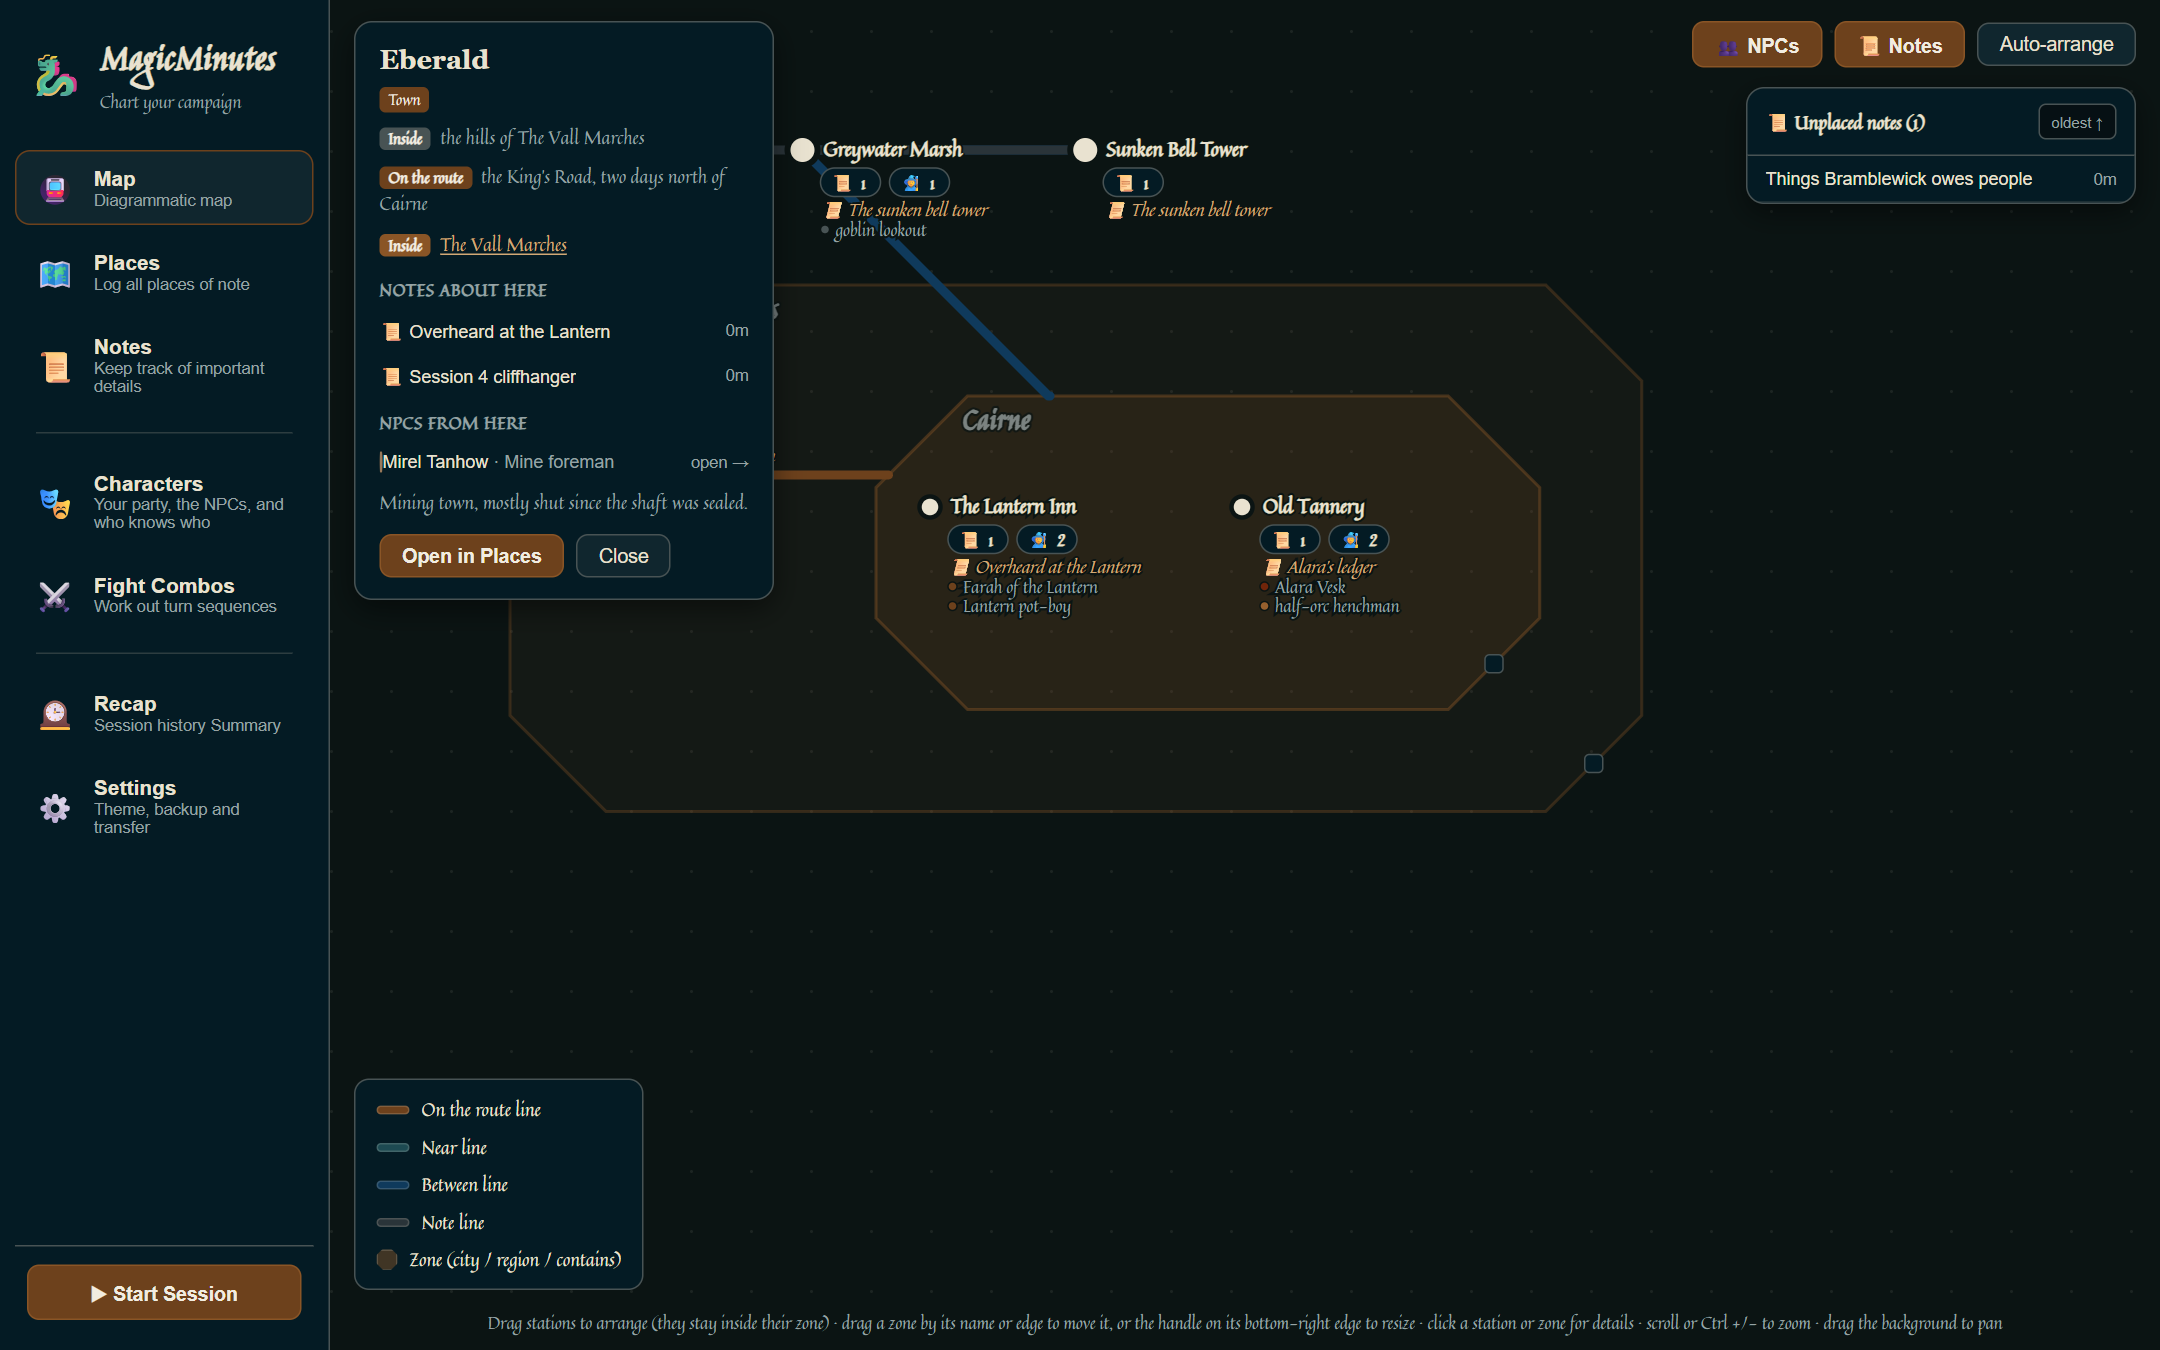
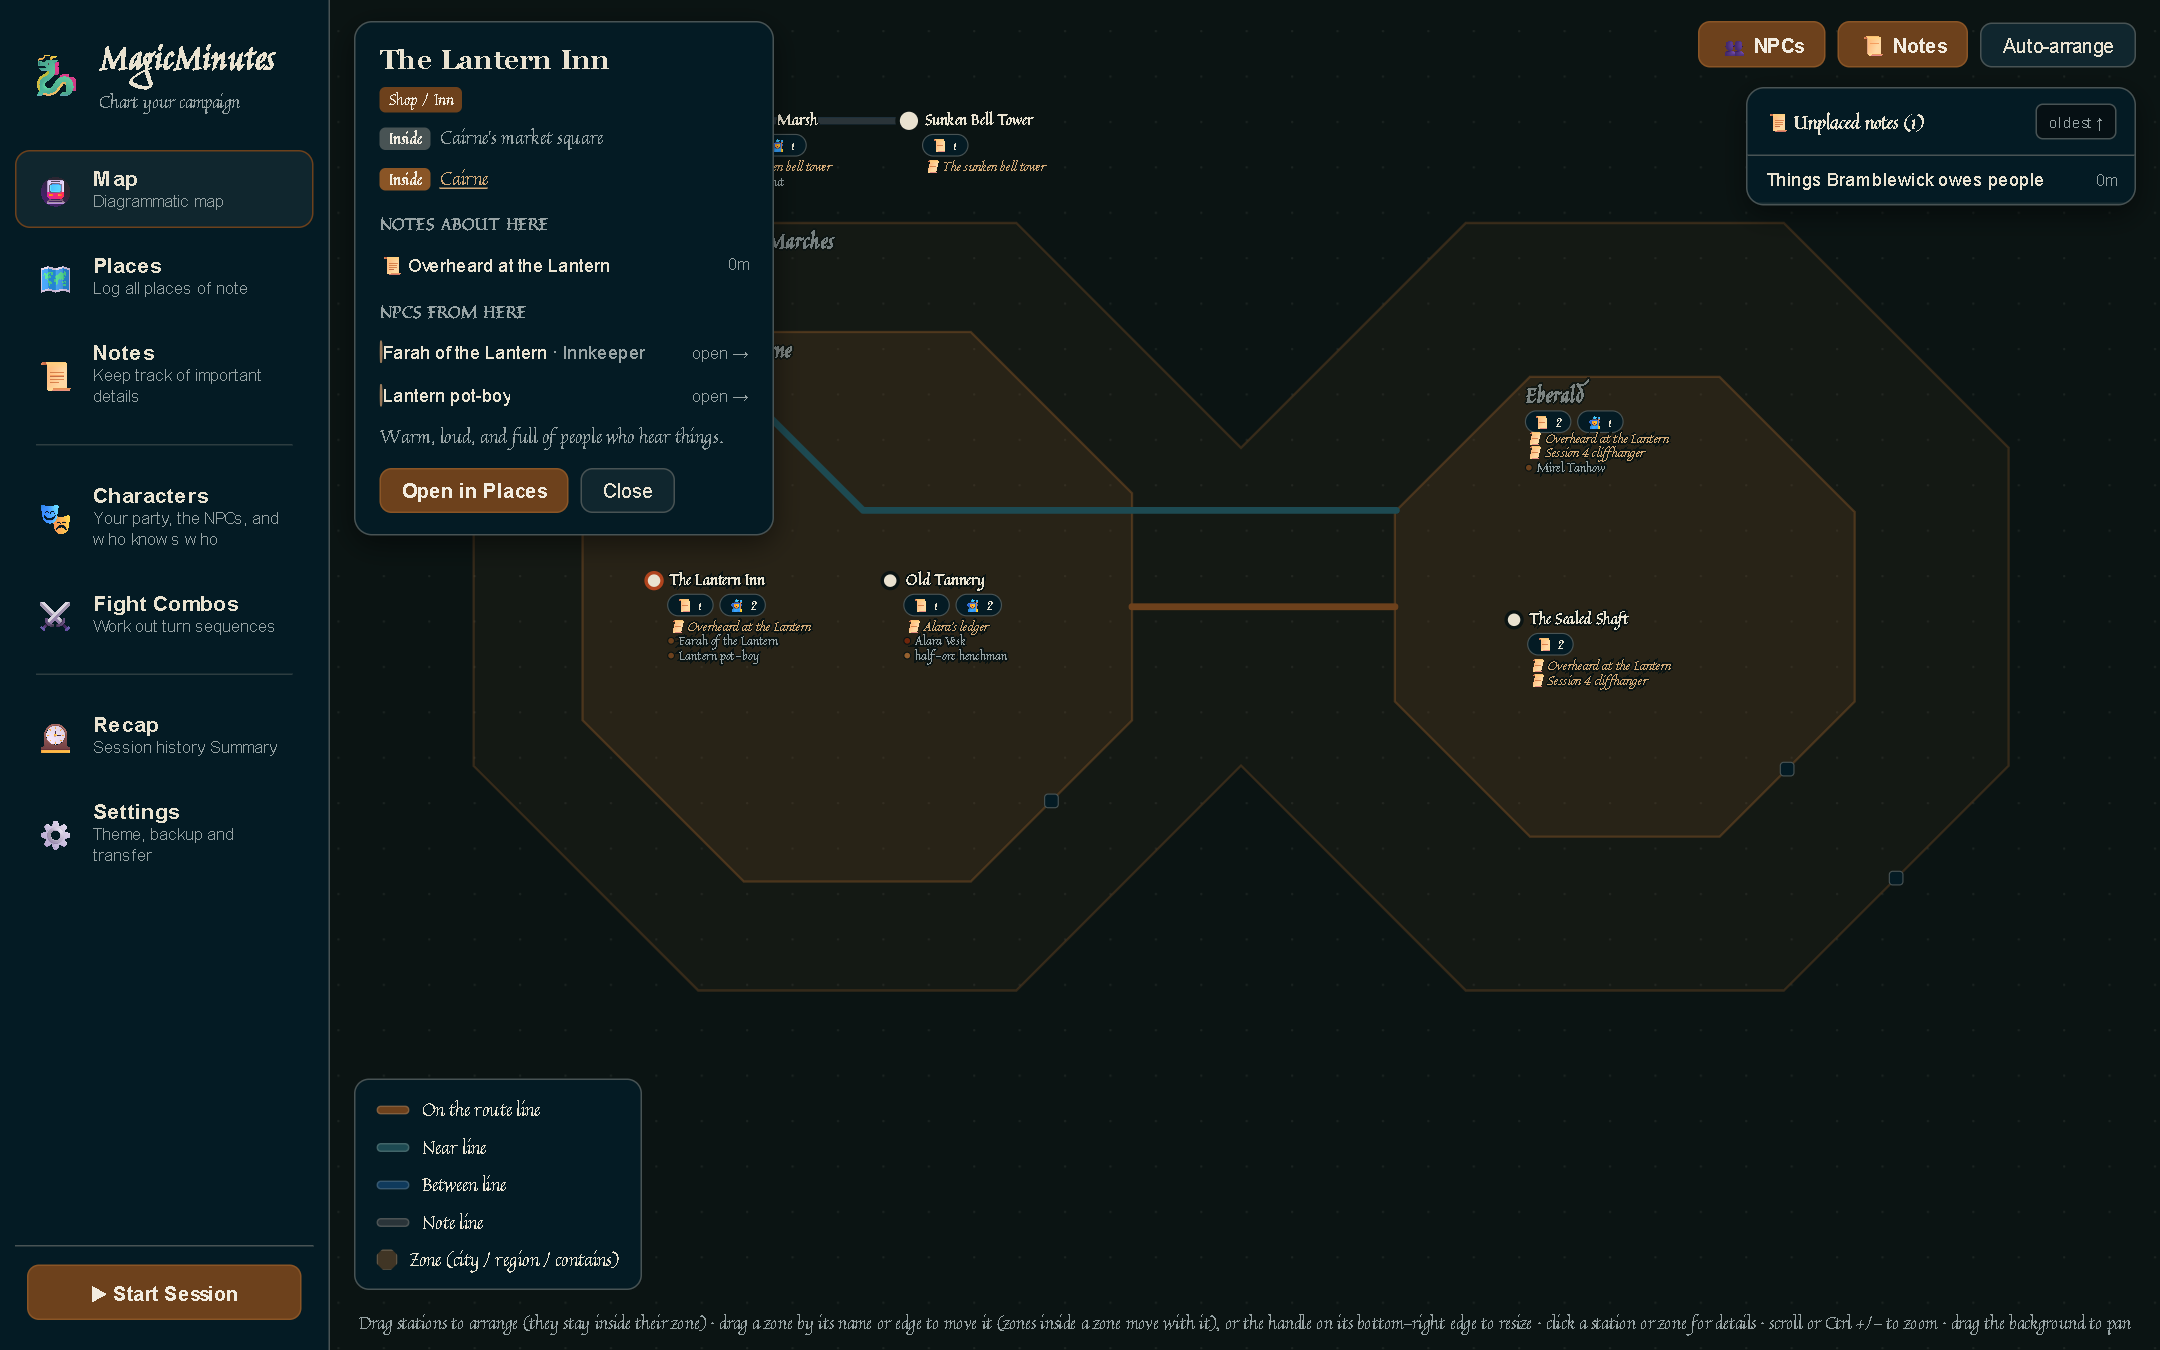
Add Buy Me a Coffee link and refresh map screenshots
- README badge and Support section linking to buymeacoffee.com/oscarhealy
- .github/FUNDING.yml so GitHub shows a Sponsor button
- New map screenshots showing joined octagon zones; the browser sample
  campaign gains a place inside Eberald so the Marches draws as two lobes

diff --git a/README.md b/README.md
@@ -4,6 +4,8 @@
 the people you've met, what happened each session, and your best combat moves — all in
 one small desktop app that works offline and keeps everything on your own computer.
 
+[![Buy me a coffee](https://img.shields.io/badge/Buy%20me%20a%20coffee-FFDD00?logo=buymeacoffee&logoColor=black)](https://buymeacoffee.com/oscarhealy)
+
 ![The MagicMinutes map, showing places as stations on a tube-style map](docs/screenshots/map.png)
 
 ---
@@ -412,6 +414,13 @@ npm run tauri build    # build an installer
 `npm run dev` serves the app at http://localhost:5179 for an ordinary browser, filled with
 a built-in sample campaign — handy for trying it out without installing anything. More detail, including tests and the
 Android build, is in [docs/DEVELOPMENT.md](docs/DEVELOPMENT.md).
+
+---
+
+## Support
+
+MagicMinutes is free and always will be. If it saves your session notes, you can
+[buy me a coffee](https://buymeacoffee.com/oscarhealy) — it's appreciated, never expected.
 
 ---
 
